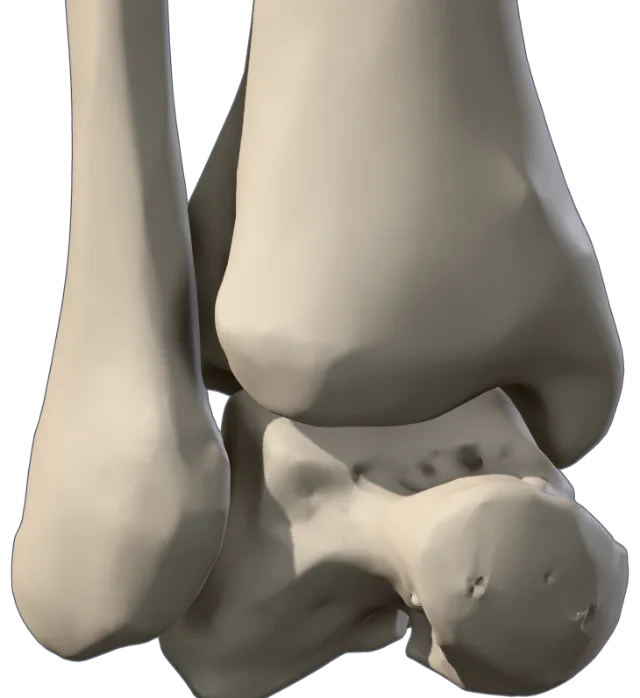
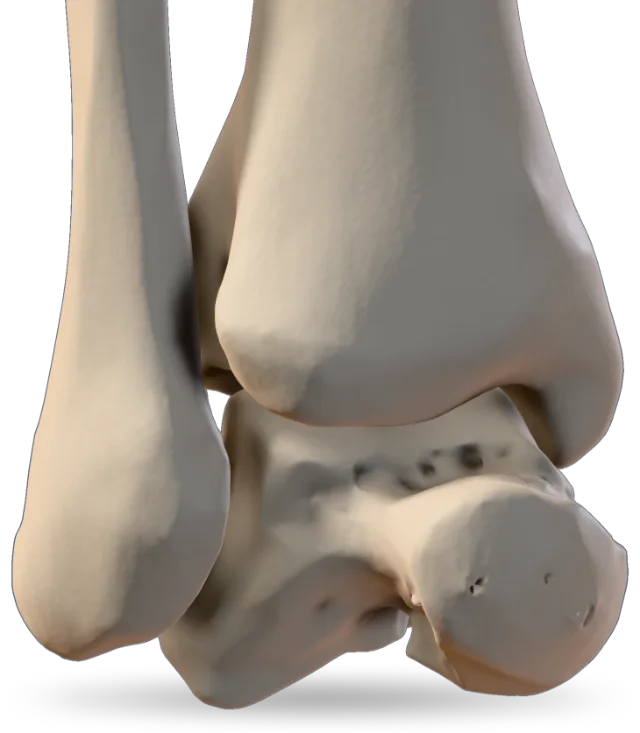
feat(landing): re-render the hero ankle with the final #132 lighting
Render the stills from exp/form-anatomy-3d at fa8b02d, with the app's own
scene: raking key light, fill, cortical relief, articular gloss, contact
shadow and smoothed talar pits. Camera, fracture polyline and composition are
unchanged; the crop now runs down to hold the whole contact shadow, which
fades out at the sides, and the silhouette rule skips the translucent shadow.
The talus leader moves onto a clean part of the talar head.

diff --git a/frontend/src/components/AnklePlate.tsx b/frontend/src/components/AnklePlate.tsx
@@ -7,7 +7,7 @@ import lateral640 from '@/assets/landing/ankle-lateral-640.webp';
 // Pre-rendered stills of the BodyParts3D right ankle the classifier draws (credited in the
 // figure's sources and in NOTICE): anterolateral view, yaw 35°, pitch 8°. The second still tints
 // the distal fibular fragment up to FRACTURE. Marks below are in the stills' pixel space.
-const IMG = { w: 1460, h: 1593 };
+const IMG = { w: 1460, h: 1673 };
 const SIZES = '(min-width: 640px) 18rem, 45vw';
 const srcSet = (a: string, b: string) => `${a} 320w, ${b} 640w`;
 
@@ -21,7 +21,7 @@ const FRACTURE =
 
 // Leader targets: [x, y] on the still.
 const LEFT = { fibula: [275, 203], syndesmosis: [SYND.x, 654], lateral: [220, 1203] } as const;
-const RIGHT = { tibia: [910, 263], medial: [1330, 953], talus: [1080, 1323] } as const;
+const RIGHT = { tibia: [910, 263], medial: [1330, 953], talus: [1160, 1190] } as const;
 
 const at = (ms: number) => ({ '--at': `${ms}ms` }) as React.CSSProperties;
 const top = (y: number) => ({ top: `${(y / IMG.h) * 100}%` });
